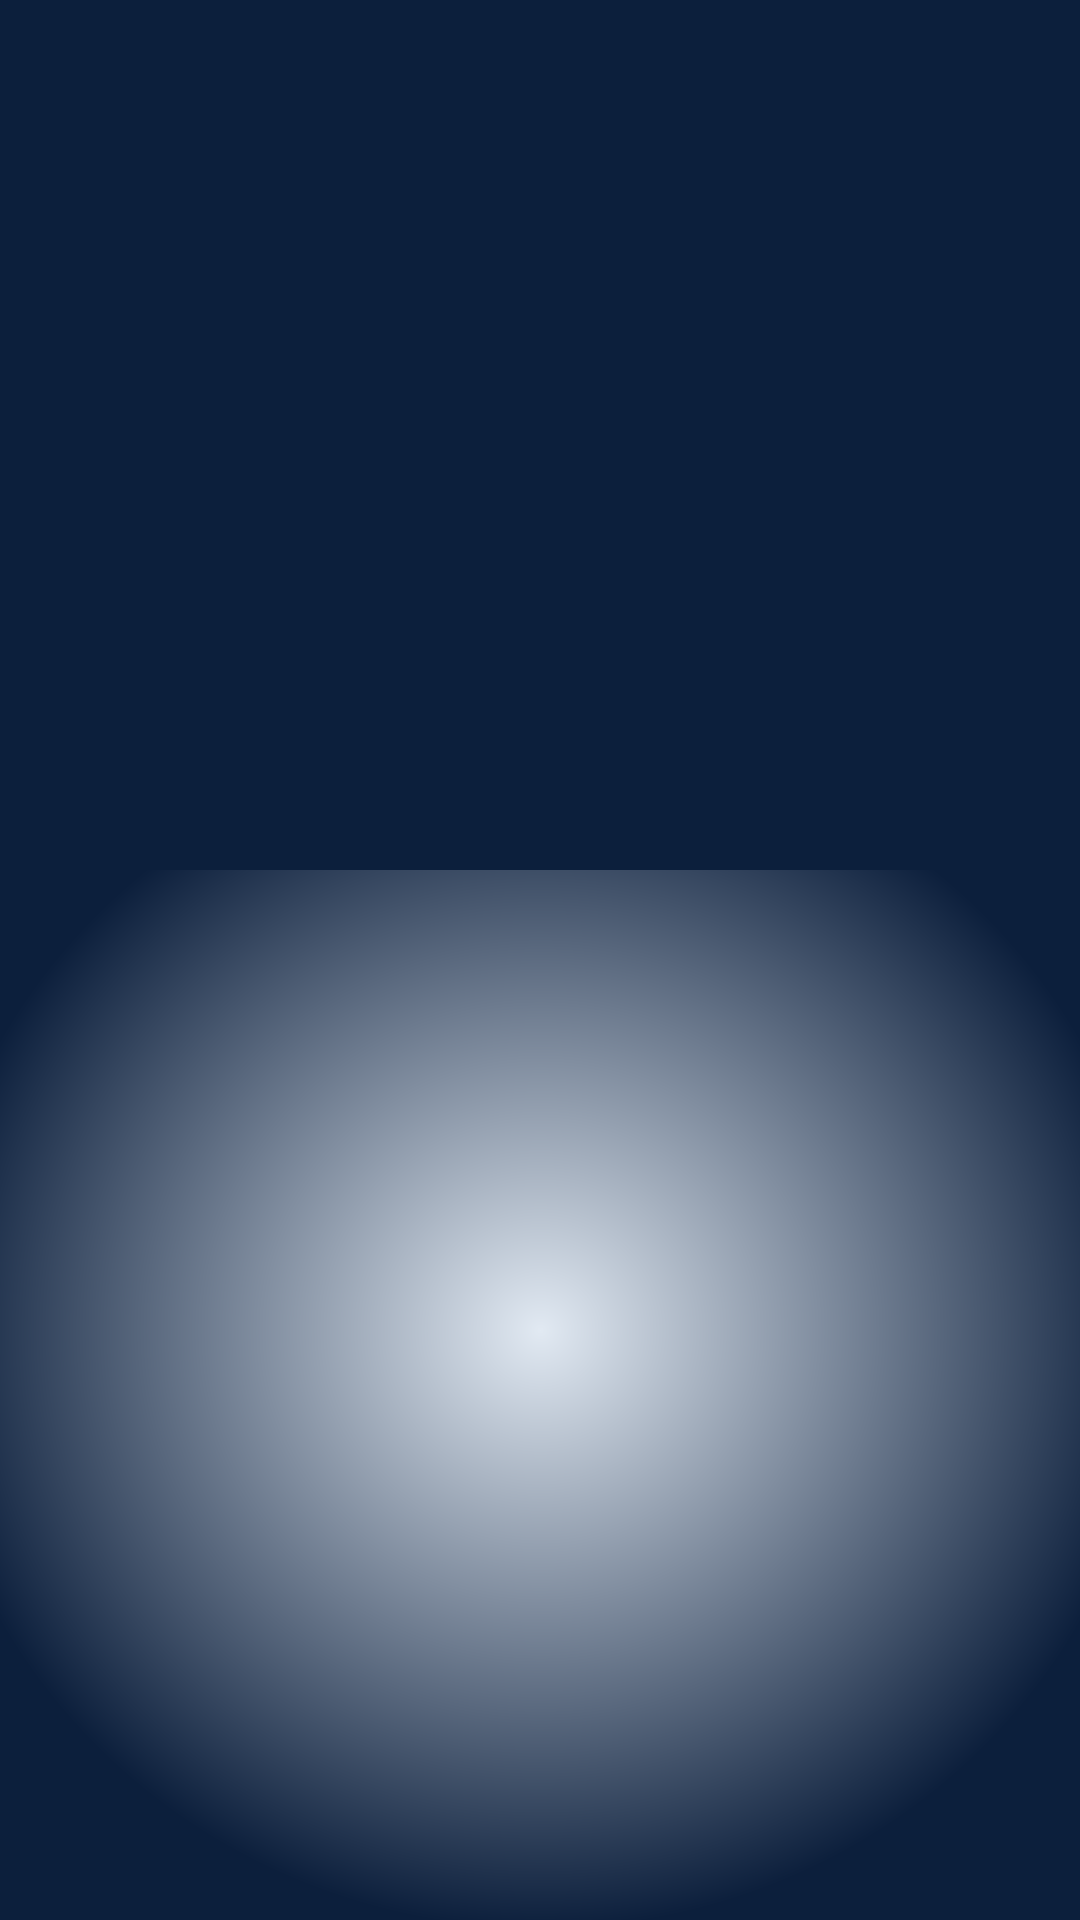
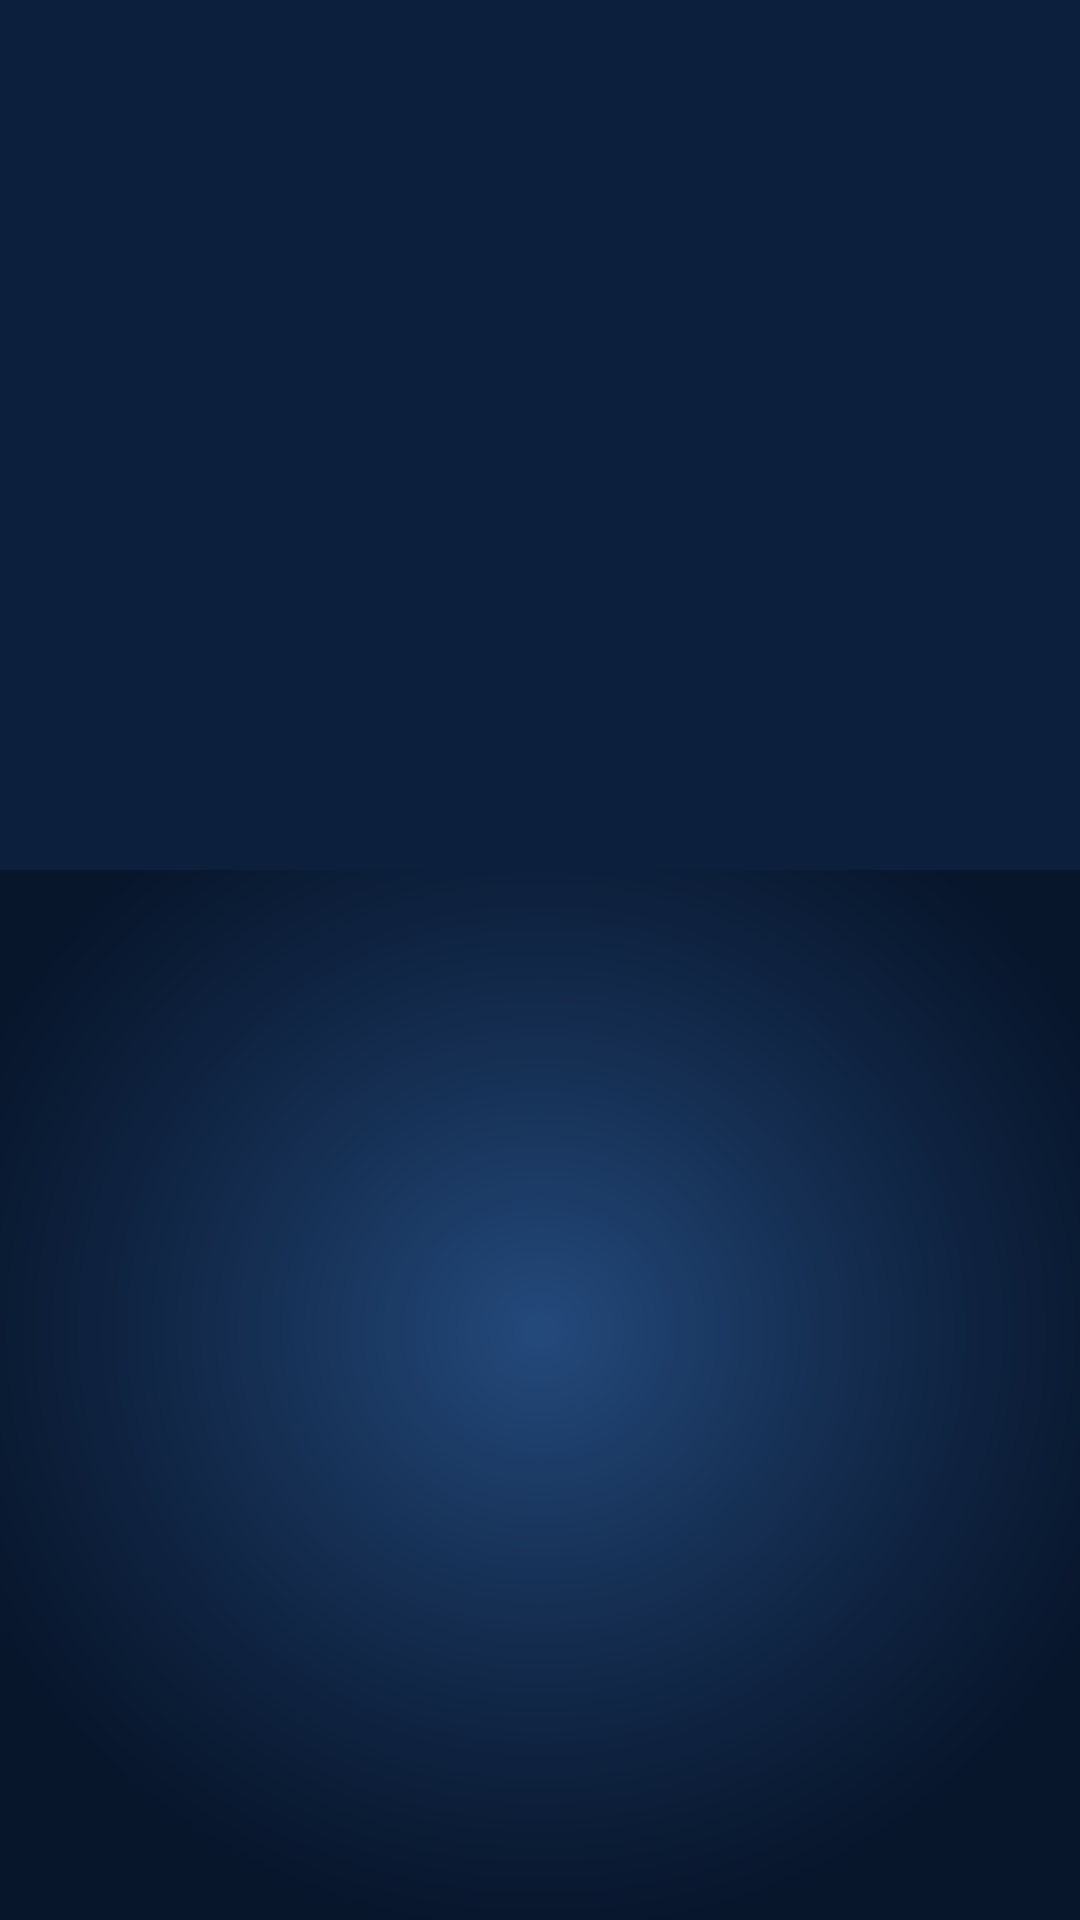
HDG video: dark navy backdrop behind Arric, section badge moved off his head
The white shirt needs a dark backdrop for contrast (16:9 and Shorts). In the
split screen the section badge now sits on the right canvas instead of over
Arric's head; it stays top-left on full-screen data shots.

Claude-Session: https://claude.ai/code/session_018DaSKbXDeoQYuRGjKfKPA7

diff --git a/edit-hdg/stage.html b/edit-hdg/stage.html
@@ -149,6 +149,8 @@ window.setT=function(t){
   const p=ease((t-INTRO)/SLIDE);
   $('right').style.transform=`translateX(${(1-p)*100}%)`;$('divider').style.opacity=p;
   $('badge').innerHTML=s.b.replace(/^(\d+)/,'<b>$1</b>');
+  // keep the badge off Arric's head: on the right canvas in split mode, top-left on full-screen data shots
+  const bx=44+(1005-44)*p;$('badge').style.left=(bx*(1-fo)+44*fo)+'px';
   const oo=s.outro?ease((loc-s.outro)/0.6):0;$('outro').style.opacity=oo;
 };
 </script></body></html>
